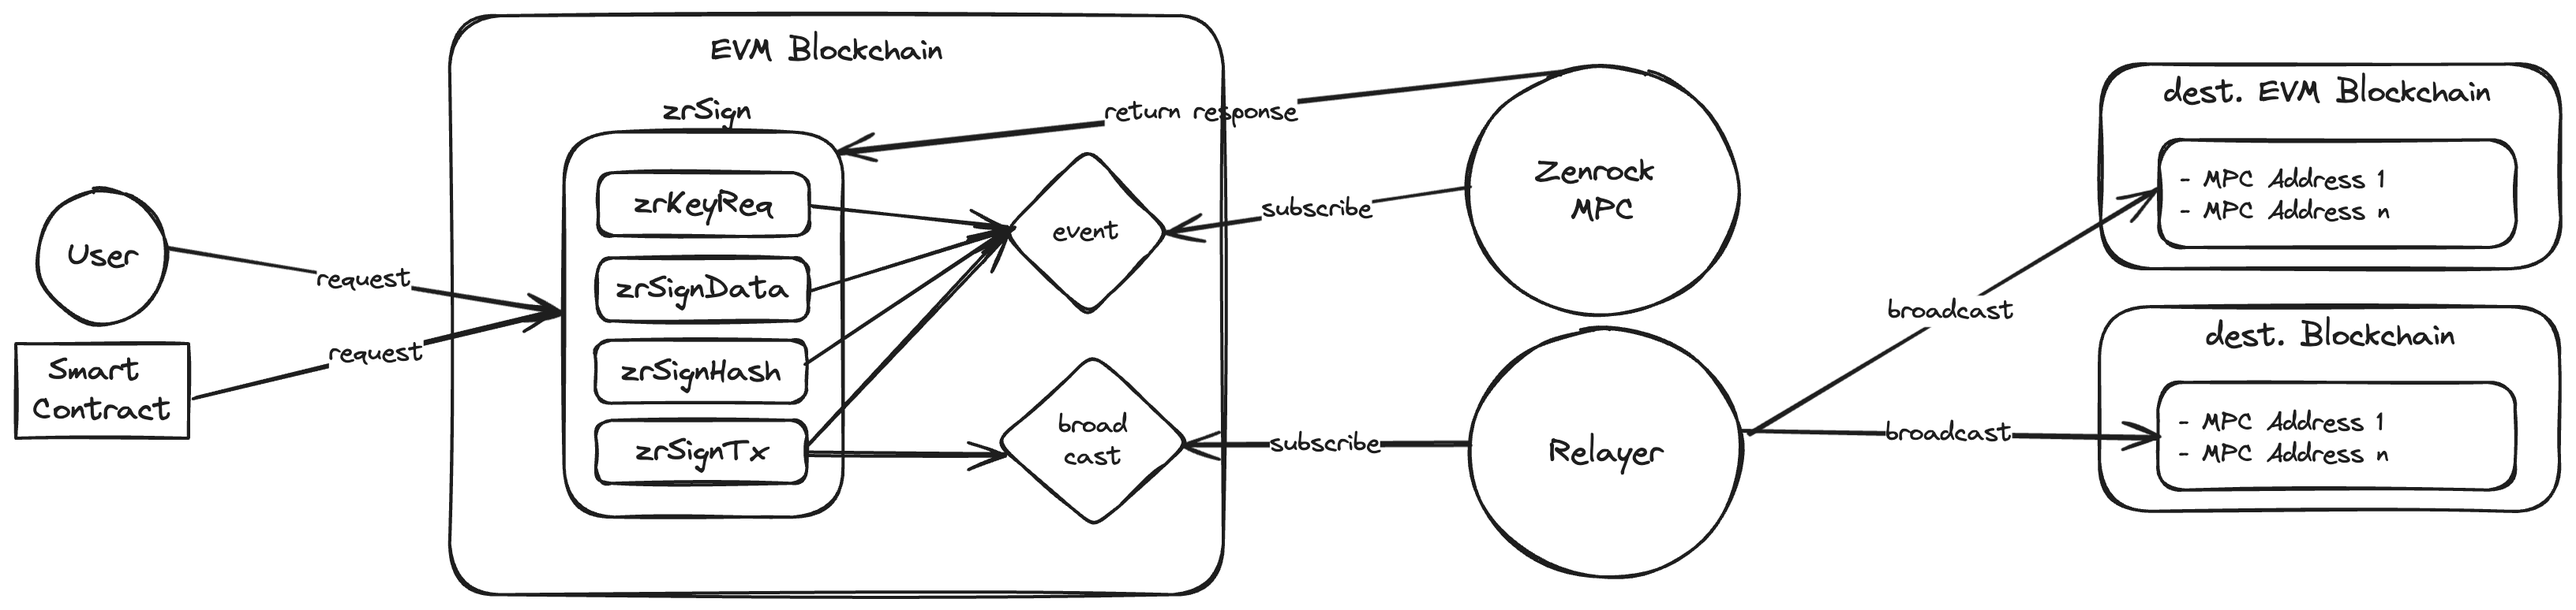
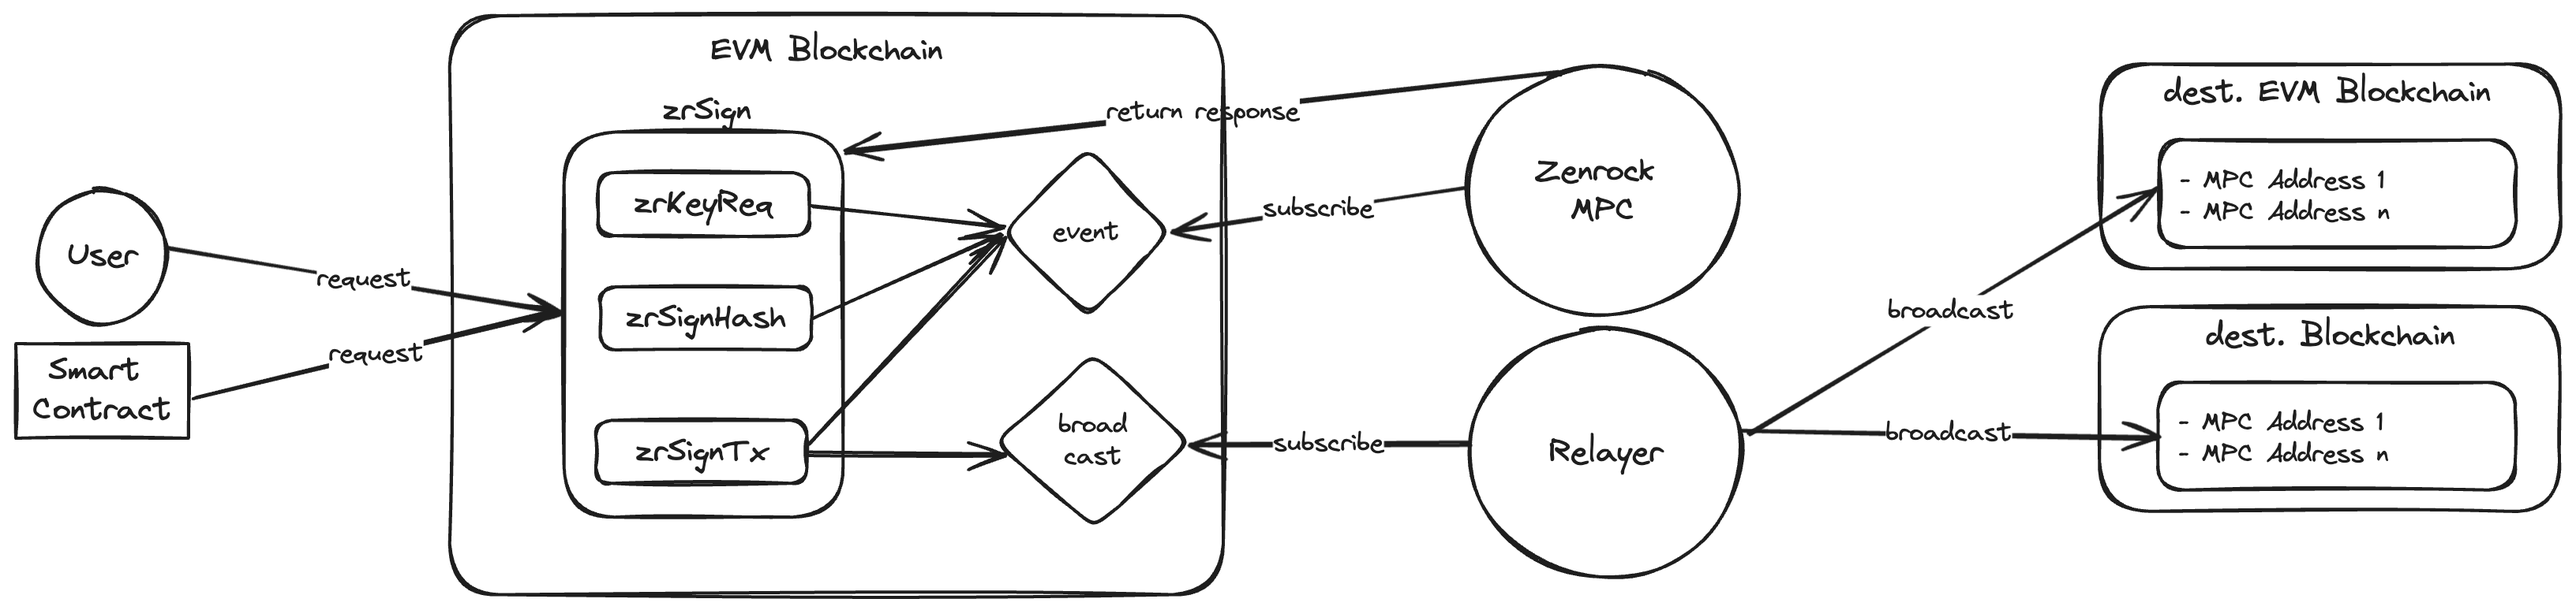
chore: remove zrSignData

diff --git a/docs/docs/zrSign/releases/zrSignDirect.md b/docs/docs/zrSign/releases/zrSignDirect.md
@@ -10,8 +10,7 @@ slug: /zrsign
 The **zrSign protocol** is a smart contract designed for providing key and signature services on various EVM blockchains.
 Zenrock's dMPC will periodically query the zrSign smart contracts for pending requests and return the responses back to the smart contract. 
 Stored in the smart contract, the public keys can be used as an externally owned account across the entire evm ecosystem.
-zrSign specifies three different endpoints that allow you to request signatures for arbitrary data (**zrSignData**), 
-blinded hashes (**zrSignHash**), and for transactions (**zrSignTx**) including a relayer service. 
+zrSign specifies three different endpoints that allow you to request signatures for blinded hashes (**zrSignHash**), and for transactions (**zrSignTx**) including a relayer service. 
 
 The protocol is implemented as a set of smart contracts that can receive requests and the dMPC's responses.
 A proxy smart contract allows for upgrading zrSign and the addition of new features. 
@@ -24,19 +23,17 @@ The following diagram shows the solution architecture of zrSign Direct:
 
 ## Technical Implementation
 
-zrSign is Zenrock's solution for cross-chain interoperability between blockchains. It allows you to manage funds and assets on different chains by interacting with zrSign Smart Contracts through a single instructor smart contract.
+zrSign is Zenrock's solution for cross-chain interoperability between blockchains. It allows for managing funds and assets on different chains by interacting with zrSign smart contracts through a single instructor smart contract.
 
 The zrSign system includes the following key elements:
 
 - zrSign Smart Contracts
-    zrSign Smart Contracts, written in Solidity, work on any EVM-compatible blockchain, facilitating key creation, signature requests, and transaction broadcasting on supported L1 chains. For a list of zrSign Smart Contracts on different chains, see ***[zrSign addresses](./addresses.md)***.
+    zrSign smart contracts, written in solidity, work on any EVM-compatible blockchain, facilitating key creation, signature requests, and transaction broadcasting on supported L1 chains. For a list of zrSign smart contracts on different chains, see ***[zrSign addresses](./addresses.md)***.
 
 - Zenrock MPC network
-    The Zenrock MPC network listens to events from the Smart Contract, generating and returning signatures. The MPC network consists of secure cloud-based MPC clusters.
+    The Zenrock MPC network listens to events from the smart contract, generating and returning signatures. The MPC network consists of secure cloud-based MPC clusters.
 
 - Cross-Chain Relayer
-    Cross-chain interoperability is enabled by the Cross-Chain Relayer. It assembles unsigned transactions and their signature and relays them from the zrSign Smart Contract to the target blockchain, supporting various message types. Users have the option to run their own relayer for relaying messages across blockchains.
+    Cross-chain interoperability is enabled by the Cross-Chain Relayer. It assembles unsigned transactions and their signature and relays them from the zrSign smart contract to the target blockchain, supporting various message types. Users have the option to run their own relayer for relaying messages across blockchains.
 
-By combining zrSign Smart Contracts, the MPC network, and the relayer, zrSign ensures advanced programmable signing and seamless interaction between different blockchains.
-
-
+By combining zrSign smart contracts, the MPC network, and the relayer, zrSign ensures advanced programmable signing and seamless interaction between different blockchains.

diff --git a/docs/docs/zrSign/devs/functions.md b/docs/docs/zrSign/devs/functions.md
@@ -128,76 +128,6 @@ contract WalletInteraction {
 ```
 ---
 
-### `zrSignData` Function Overview
-
-#### Overview
-The `zrSignData` function is also part of the `Sign.sol` smart contract, designed to handle the signing of arbitrary data on the blockchain. This function, similar to `zrSignHash`, employs the `zrSignParams` struct to ensure secure and compliant operations across blockchain networks, specifically tailored to data other than hashes.
-
-#### Description
-`zrSignData` facilitates the signing of general data, ensuring the integrity and authenticity of information as it moves or is utilized across different blockchain platforms. This function is crucial for validating transactions, agreements, or any data that requires verified approval through digital signatures. It requires data to be formatted properly before signing and includes fee assessments similar to `zrSignHash`.
-
-#### Parameters
-- `zrSignParams`: This struct is used to pass necessary information for the signing process:
-  - `walletTypeId`: Identifier for the wallet type involved in the signing.
-  - `walletIndex`: Index of the wallet that will perform the signing.
-  - `dstChainId`: The destination chain ID where the signed data might be used or verified.
-  - `payload`: General data to be signed, provided as an array of bytes.
-  - `broadcast`: Must be set to `false` as broadcasting is handled in other specific functions.
-
-#### Modifiers
-- `walletTypeGuard(params.walletTypeId)`: Ensures that only wallets of a certain type can perform the operation.
-- `chainIdGuard(params.walletTypeId, params.dstChainId)`: Validates that the signing operation pertains to the correct blockchain.
-
-#### Return Type
-- None
-
-#### Usage Example
-Below is a hypothetical example of how to interact with the `zrSignData` function, including the steps to calculate the necessary fees and determine the wallet index:
-
-```solidity
-// SPDX-License-Identifier: MIT
-pragma solidity 0.8.20;
-
-import "./ISign.sol";  // Importing the Sign contract
-import "./SignTypes.sol";  // Importing the types used by the Sign contract
-
-contract WalletInteraction {
-   ISign public signContract;
-
-    // keccak256(abi.encode(ChainInfo{purpose:44 coinType: 60}))
-    bytes32 constant evmWalletTypeId = 0xe146c2986893c43af5ff396310220be92058fb9f4ce76b929b80ef0d5307100a;  // EVM wallet type ID
-    // keccak256(abi.encodePacked("eip155:11155111"));
-    bytes32 constant sepoliaDstChainId = 0xafa90c317deacd3d68f330a30f96e4fa7736e35e8d1426b2e1b2c04bce1c2fb7;  // Sepolia chain ID
- 
-    constructor(address _signContractAddress) {
-        signContract = ISign(_signContractAddress);
-    }
-
-    // Function to sign data
-    function signData(bytes memory data) external payable {
-        // Fetching the wallet index for the owner
-        string[] memory keys = signContract.getZrKeys(evmWalletTypeId, address(this));
-        uint256 walletIndex = keys.length;
-
-        // Get fee estimate
-        uint256 fee = signContract.estimateFee(evmWalletTypeId, address(this), walletIndex);
-        require(msg.value >= fee, "Insufficient fee sent");
-
-        SignTypes.ZrSignParams memory params = SignTypes.ZrSignParams({
-            walletTypeId: evmWalletTypeId,
-            walletIndex: walletIndex,
-            dstChainId: sepoliaDstChainId,
-            payload: data,
-            broadcast: false
-        });
-
-        // Execute the signing function with the prepared parameters and the required fee
-        signContract.zrSignData{value: fee}(params);
-    }
-}
-```
----
-
 ### `zrSignTx` OFFchain Encoding Function Overview
 
 #### Overview

diff --git a/docs/docs/zrSign/devs/references/zrsign-transfer.md b/docs/docs/zrSign/devs/references/zrsign-transfer.md
@@ -375,10 +375,6 @@ interface IZrSign {
         external
         payable;
 
-    function zrSignData(SignTypes.ZrSignParams calldata params)
-        external
-        payable;
-
     function zrSignTx(SignTypes.ZrSignParams calldata params) external payable;
 
     function isWalletTypeSupported(bytes32 walletTypeId)
@@ -459,30 +455,6 @@ abstract contract ZrSignConnect {
         });
 
         IZrSign(zrSign).zrSignHash{value: _fee}(params);
-    }
-
-    // Request a signature for a specific data payload
-    // This function uses the ZrSign contract to request a signature for a specific data payload
-    // Parameters:
-    // - walletTypeId: The ID of the wallet type associated with the data payload
-    // - fromAccountIndex: The index of the public key to be used for signing
-    // - dstChainId: The ID of the destination chain
-    // - payload: The data payload to be signed
-    function reqSignForData(
-        bytes32 walletTypeId,
-        uint256 walletIndex,
-        bytes32 dstChainId,
-        bytes memory payload
-    ) internal virtual {
-        uint256 _fee = calculateFeeForSign(abi.encode(payload));
-        SignTypes.ZrSignParams memory params = SignTypes.ZrSignParams({
-            walletTypeId: walletTypeId,
-            walletIndex: walletIndex,
-            dstChainId: dstChainId,
-            payload: payload,
-            broadcast: false
-        });
-        IZrSign(zrSign).zrSignData{value: _fee}(params);
     }
 
     // Request a signature for a transaction

diff --git a/docs/docs/zrSign/devs/references/izrsign-interface.md b/docs/docs/zrSign/devs/references/izrsign-interface.md
@@ -25,14 +25,6 @@ This function requests a signature for a hash associated with a specific wallet 
 function zrSignHash(SignTypes.ZrSignParams calldata params) external payable;
 ```
 
-### zrSignData
-
-This function requests a signature for data associated with a specific wallet type and public key index. It should be payable to allow sending Ether along with the request.
-
-```solidity
-function zrSignData(SignTypes.ZrSignParams calldata params) external payable;
-```
-
 ### zrSignTx
 
 This function requests a signature for a transaction data associated with a specific wallet type and public key index. If the broadcast flag is true, the transaction will be broadcasted after being signed. It should be payable to allow sending Ether along with the request.
@@ -118,11 +110,6 @@ interface IZrSign {
     // The hash is associated with a specific wallet type and public key index
     // The function is payable to allow sending Ether along with the request
     function zrSignHash(SignTypes.ZrSignParams calldata params) external payable;
-
-    // Request a signature for data
-    // The data is associated with a specific wallet type and public key index
-    // The function is payable to allow sending Ether along with the request
-    function zrSignData(SignTypes.ZrSignParams calldata params) external payable;
 
     // Request a signature for a transaction
     // The transaction data is associated with a specific wallet type and public key index

diff --git a/docs/docs/zrSign/devs/references/zrsign-connect.md b/docs/docs/zrSign/devs/references/zrsign-connect.md
@@ -226,30 +226,6 @@ abstract contract ZrSignConnect {
         IZrSign(zrSign).zrSignHash{value: _fee}(params);
     }
 
-    // Request a signature for a specific data payload
-    // This function uses the ZrSign contract to request a signature for a specific data payload
-    // Parameters:
-    // - walletTypeId: The ID of the wallet type associated with the data payload
-    // - fromAccountIndex: The index of the public key to be used for signing
-    // - dstChainId: The ID of the destination chain
-    // - payload: The data payload to be signed
-    function reqSignForData(
-        bytes32 walletTypeId,
-        uint256 walletIndex,
-        bytes32 dstChainId,
-        bytes memory payload
-    ) internal virtual {
-        uint256 _fee = calculateFeeForSign(abi.encode(payload));
-        SignTypes.ZrSignParams memory params = SignTypes.ZrSignParams({
-            walletTypeId: walletTypeId,
-            walletIndex: walletIndex,
-            dstChainId: dstChainId,
-            payload: payload,
-            broadcast: false
-        });
-        IZrSign(zrSign).zrSignData{value: _fee}(params);
-    }
-
     // Request a signature for a transaction
     // This function uses the zrSIgn contract to request a signature for a transaction
     // Parameters:

diff --git a/docs/docs/zrSign/devs/get-started.md b/docs/docs/zrSign/devs/get-started.md
@@ -26,7 +26,6 @@ zrSign exposes core external functions that can be called either directly or by 
 Those are `zrKeyReq` to request a new public key as well as different signature request functions. 
 
 - `zrSignHash` - a signature request for a hash, which can be used to obfuscate the actual signing mechanisms.
-- `zrSignData` - a signature request for arbitrary data, for example personal sign requests.
 - `zrSignTx` - a signature request for unsigned transactions. Requires to assemble the unsigned tx and the signature to relay it to the destination chain.
 
 A more detailed description can be found at the ***[functions](functions.md)*** page.

diff --git a/docs/docs/zrSign/concepts/zrSign.md b/docs/docs/zrSign/concepts/zrSign.md
@@ -55,7 +55,6 @@ zrSign allows you to build applications for various use cases:
 1. The ***zrSign Smart Contract*** is a go-to access point for users to interact with zrSign services:
 
 - The `zrKey` function allows you to generate keys.
-- The `zrSignData` function allows you to request signatures for plain data.
 - The `zrSignHash` function allows you to request signatarus for encrypted data or hashes.
 - The `zrSignTx` function allows you to request signatures for unsigned transactions and also provides the option to sign and broadcast a transaction, which will get picked up by the relayer.
 
